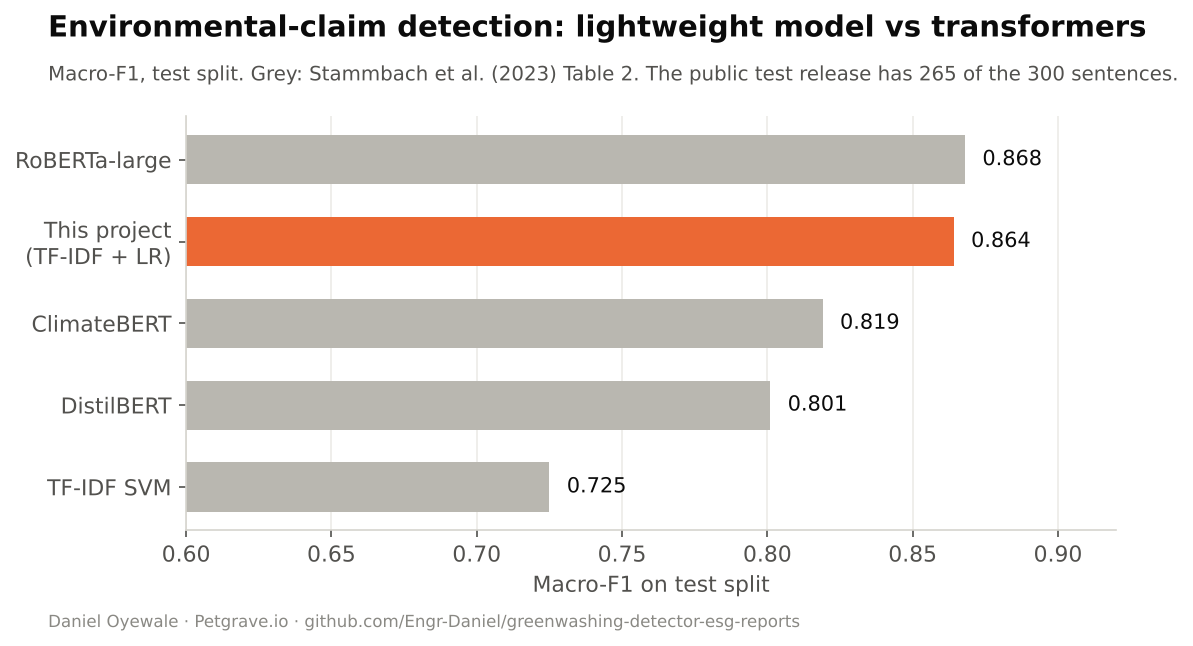
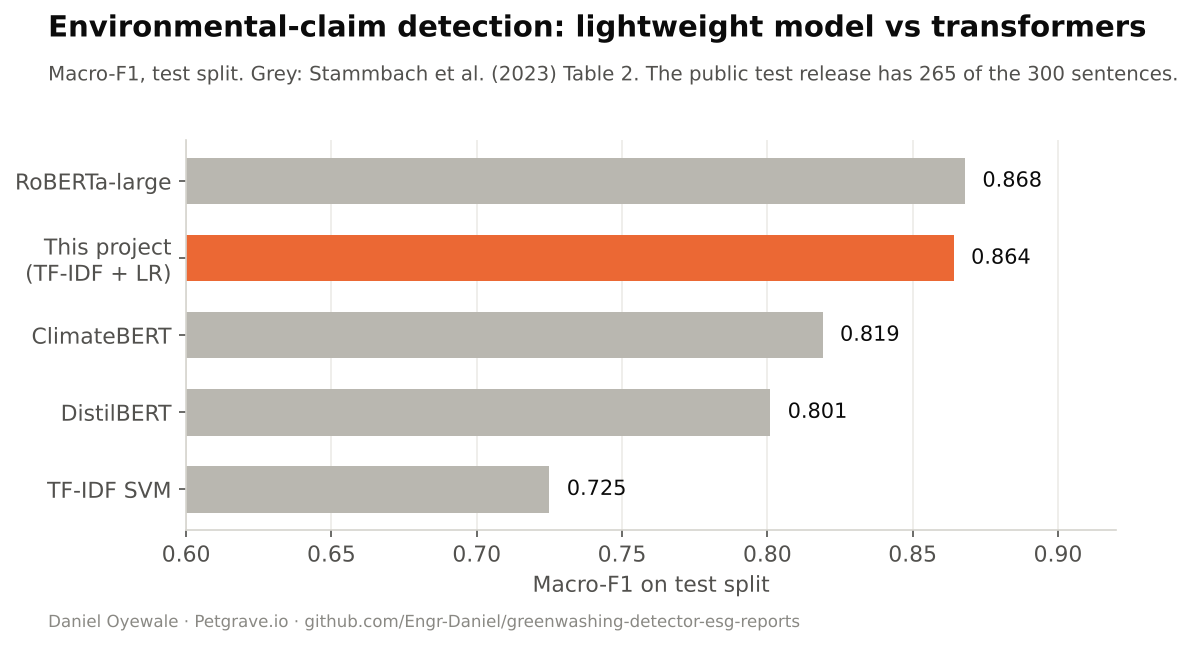
fix: case-study chart now splits claims into groups that sum to 100%
Each claim falls in exactly one group (red flags only, mixed, evidence only,
neither), replacing overlapping signal shares that readers expected to add up.

diff --git a/app/streamlit_app.py b/app/streamlit_app.py
@@ -15,7 +15,7 @@ import streamlit as st
 
 ROOT = Path(__file__).resolve().parents[1]
 sys.path.insert(0, str(ROOT / "src"))
-from greenwash.analyse import analyse_pdf, analyse_sentences, claim_mask, models, scorecard, signal_counts  # noqa: E402
+from greenwash.analyse import MIX, analyse_pdf, analyse_sentences, claim_mask, claim_mix, models, scorecard, signal_counts  # noqa: E402
 from greenwash.paths import METRICS, PROCESSED, SAMPLES  # noqa: E402
 from greenwash.pdftext import sentences  # noqa: E402
 from greenwash.scoring import explain, grade, load_signals  # noqa: E402
@@ -455,27 +455,43 @@ with t_cmp:
                      "Quantified": sc["share_quantified"], "Verified": sc["share_verified"], "Targets": sc["targets"],
                      "With baseline": sc["targets_with_baseline"]})
     cmp = pd.DataFrame(rows)
-    st.dataframe(cmp, hide_index=True, width="stretch", column_config={
+    st.dataframe(cmp.assign(**{c: cmp[c] * 100 for c in ("Vague", "Quantified", "Verified")}), hide_index=True,
+                 width="stretch", column_config={
         "Score": st.column_config.ProgressColumn("Score", min_value=0, max_value=100, format="%.0f"),
         "Median specificity": st.column_config.NumberColumn(format="%.0f"),
-        **{c: st.column_config.NumberColumn(c, format="percent") for c in ("Vague", "Quantified", "Verified")}})
-    metrics = [("Vague", "Vague wording"), ("Quantified", "Quantified"), ("Verified", "Externally verified")]
+        **{c: st.column_config.NumberColumn(c, format="%.0f%%") for c in ("Vague", "Quantified", "Verified")}})
+    mixes = [r["mix"] for r in CASES["reports"].values()]
+    if sc is not None and not case_key:
+        mixes.append(claim_mix(df))
+    mix_col = {"vague_only": ORANGE, "mixed": BLUE, "specific": AQUA, "neutral": "#b9b7b0"}
+    names = [n.replace(" Plc", "").replace(" Holdings", "").replace(" Energy", "").replace(" Cement", "")
+             if MOBILE else n for n in cmp.Report][::-1]
+    min_lab = 0.12 if MOBILE else 0.06
     fig = go.Figure()
-    for i, r in enumerate(cmp.itertuples()):
-        fig.add_trace(go.Bar(name=r.Report, x=[m[1] for m in metrics], y=[getattr(r, m[0]) for m in metrics],
-                             marker_color=SERIES[i % 3] if i < 3 else INK3, text=[pct(getattr(r, m[0])) for m in metrics],
-                             textposition="outside", textfont=dict(color=INK2, size=11), cliponaxis=False,
-                             hovertemplate="%{x}: %{y:.0%}<extra>" + r.Report + "</extra>"))
-    style(fig, "Disclosure profile", "Share of each report's environmental claims", height=380, legend=True)
-    fig.update_yaxes(tickformat=".0%", range=[0, max(0.1, cmp[["Vague", "Quantified", "Verified"]].max().max() * 1.25)])
-    fig.update_layout(bargap=0.25)
+    for k, lab in MIX:
+        vals = [m[k]["share"] for m in mixes][::-1]
+        cnts = [m[k]["claims"] for m in mixes][::-1]
+        fig.add_trace(go.Bar(y=names, x=vals, orientation="h", name=lab, marker_color=mix_col[k],
+                             marker_line=dict(color="white", width=1.5), customdata=cnts,
+                             text=[f"{v:.0%}" if v >= min_lab else "" for v in vals], textposition="inside", textangle=0,
+                             insidetextanchor="middle", textfont=dict(color=INK if k == "neutral" else "white", size=12),
+                             hovertemplate="%{y}<br>" + lab + ": %{x:.0%} (%{customdata} claims)<extra></extra>"))
+    no_ev = [m["vague_only"]["share"] + m["neutral"]["share"] for m in mixes]
+    style(fig, f"{min(no_ev):.0%}–{max(no_ev):.0%} of claims give no verifiable evidence",
+          "Each claim counted once, so each bar = 100%. Evidence = number + unit, year, baseline, scope, verification "
+          "or concrete action.", height=150 + 70 * len(mixes), legend=True)
+    fig.update_layout(barmode="stack", bargap=0.35, legend_traceorder="normal")
+    fig.update_xaxes(tickformat=".0%", range=[0, 1])
+    fig.update_yaxes(gridcolor="rgba(0,0,0,0)")
     st.plotly_chart(fig, width="stretch", config=CFG)
     best_q = cmp.loc[cmp.Quantified.idxmax()]
     most_v = cmp.loc[cmp.Vague.idxmax()]
     st.markdown(f'''<div class="card"><h4>What stands out</h4>
-      <div class="msg"><div class="n">1</div><div><div class="t">Numbers are rare</div><div class="b">Across the reports,
-      only {cmp.Quantified.min():.0%}–{cmp.Quantified.max():.0%} of environmental claims carry a number with a unit
-      ({html.escape(best_q.Report)} leads), and external verification is mentioned in under {cmp.Verified.max():.0%}.</div></div></div>
+      <div class="msg"><div class="n">1</div><div><div class="t">Most claims can't be checked</div><div class="b">
+      {min(no_ev):.0%}–{max(no_ev):.0%} of environmental claims give no verifiable evidence (no number, year, baseline,
+      scope, verification or concrete action). Only {cmp.Quantified.min():.0%}–{cmp.Quantified.max():.0%} carry a number
+      with a unit ({html.escape(best_q.Report)} leads), and external verification is mentioned in under
+      {cmp.Verified.max():.0%}.</div></div></div>
       <div class="msg"><div class="n">2</div><div><div class="t">Generic green language dominates where numbers are
       missing</div><div class="b">{html.escape(most_v.Report)} uses vague terms in {most_v.Vague:.0%} of its
       claims.</div></div></div>

diff --git a/src/greenwash/figures.py b/src/greenwash/figures.py
@@ -24,7 +24,7 @@ NOTE = "Daniel Oyewale · Petgrave.io · github.com/Engr-Daniel/greenwashing-det
 
 
 def _save(fig, name, title, sub, foot_y=-0.03):
-    fig.subplots_adjust(top=0.80)
+    fig.subplots_adjust(top=0.76)
     fig.text(0.01, 0.97, title, ha="left", va="top", fontsize=14, fontweight="bold", color=INK)
     fig.text(0.01, 0.885, sub, ha="left", va="top", fontsize=9.5, color=INK2)
     fig.text(0.01, foot_y, NOTE, ha="left", va="top", fontsize=8, color="#8a8984")
@@ -74,29 +74,37 @@ def signal_lift(m):
           f"{m['greenwashing_risk']['n']} claims labelled greenwashing / not (EmeraldMind 2026). Orange = red flag, green = evidence.")
 
 
+MIX_STYLE = [("vague_only", "Red flags, no evidence", ORANGE), ("mixed", "Red flags + evidence", BLUE),
+             ("specific", "Evidence, no red flags", AQUA), ("neutral", "Neither (plain statement)", GREY)]
+
+
 def case_studies(cs):
-    rep = cs["reports"]
-    names = [f'{r["company"].replace(" Plc", "")}\n{r["year"]}' for r in rep.values()]
-    metrics = [("share_vague", "Vague wording", ORANGE), ("share_quantified", "Quantified", BLUE),
-               ("share_verified", "Externally verified", AQUA)]
-    fig, ax = plt.subplots(figsize=(8, 4.4))
-    w = 0.26
-    for j, (k, lab, col) in enumerate(metrics):
-        vals = [r["scorecard"][k] for r in rep.values()]
-        xs = [i + (j - 1) * w for i in range(len(vals))]
-        ax.bar(xs, vals, width=w - 0.02, color=col, label=lab)
-        for x, v in zip(xs, vals):
-            ax.text(x, v + 0.008, f"{v:.0%}", ha="center", fontsize=9, color=INK)
-    ax.set_xticks(range(len(names)))
-    ax.set_xticklabels([f'{n}\nGrade {r["scorecard"]["report_grade"]} · {r["scorecard"]["claims"]} claims'
-                        for n, r in zip(names, rep.values())])
-    ax.yaxis.set_major_formatter(matplotlib.ticker.PercentFormatter(1, decimals=0))
-    ax.set_ylabel("Share of environmental claims")
-    ax.legend(frameon=False, ncol=3, loc="upper right", bbox_to_anchor=(1, 1.02))
-    ax.grid(axis="x", visible=False)
-    _save(fig, "03_nigerian_case_studies.png", "Nigerian sustainability reports: vague words outnumber verifiable numbers",
-          "Same model and rules applied to three public reports. Disclosure quality, not a finding of greenwashing.",
-          foot_y=-0.10)
+    """100% stacked bar: every claim falls in exactly one group, so each bar sums to 100%."""
+    rep = list(cs["reports"].values())[::-1]
+    fig, ax = plt.subplots(figsize=(9, 3.9))
+    left = [0.0] * len(rep)
+    for k, lab, col in MIX_STYLE:
+        vals = [r["mix"][k]["share"] for r in rep]
+        ax.barh(range(len(rep)), vals, left=left, color=col, label=lab, height=0.58, edgecolor="white", linewidth=1.5)
+        for i, (v, l0) in enumerate(zip(vals, left)):
+            if v >= 0.05:
+                ax.text(l0 + v / 2, i, f"{v:.0%}", ha="center", va="center", fontsize=10,
+                        color="white" if col != GREY else INK, fontweight="bold")
+        left = [a + b for a, b in zip(left, vals)]
+    ax.set_yticks(range(len(rep)))
+    ax.set_yticklabels([f'{r["company"].replace(" Plc", "")} {r["year"]}\n{r["scorecard"]["claims"]} claims · '
+                        f'grade {r["scorecard"]["report_grade"]}' for r in rep])
+    ax.set_xlim(0, 1)
+    ax.xaxis.set_major_formatter(matplotlib.ticker.PercentFormatter(1, decimals=0))
+    ax.set_xlabel("Share of the report's environmental claims (each bar = 100%)")
+    ax.grid(axis="y", visible=False)
+    ax.legend(frameon=False, ncol=4, loc="lower left", bbox_to_anchor=(0, 1.0), fontsize=9.5)
+    fig.subplots_adjust(left=0.22)
+    no_ev = [r["mix"]["vague_only"]["share"] + r["mix"]["neutral"]["share"] for r in rep]
+    _save(fig, "03_nigerian_case_studies.png",
+          f"{min(no_ev):.0%}–{max(no_ev):.0%} of environmental claims in each report give no verifiable evidence",
+          "Each claim is counted once. Evidence = a number with a unit, a year, baseline, scope, verification or a concrete "
+          "action. Disclosure quality, not a finding of greenwashing.", foot_y=-0.06)
 
 
 def main():

diff --git a/src/greenwash/case_studies.py b/src/greenwash/case_studies.py
@@ -14,7 +14,7 @@ from pathlib import Path
 import pandas as pd
 
 sys.path.insert(0, str(Path(__file__).resolve().parents[1]))
-from greenwash.analyse import analyse_pdf, scorecard, signal_counts  # noqa: E402
+from greenwash.analyse import analyse_pdf, claim_mix, scorecard, signal_counts  # noqa: E402
 from greenwash.models import load_env_claims  # noqa: E402
 from greenwash.paths import PROCESSED, RAW  # noqa: E402
 from greenwash.scoring import specificity_score  # noqa: E402
@@ -62,6 +62,7 @@ def main():
         out["reports"][key] = {
             **meta, "scorecard": sc,
             "signals": signal_counts(df).to_dict(orient="records"),
+            "mix": claim_mix(df),
             "spec_hist": c.specificity.value_counts(bins=list(range(0, 105, 5)), sort=False).astype(int).tolist(),
             "by_page": c.groupby("page").agg(claims=("sentence", "size"), specificity=("specificity", "mean"))
                         .reset_index().round(1).to_dict(orient="records"),

diff --git a/src/greenwash/analyse.py b/src/greenwash/analyse.py
@@ -103,6 +103,20 @@ def scorecard(df: pd.DataFrame, n_pages: int | None = None) -> dict:
     return out
 
 
+MIX = [("vague_only", "Red flags, no evidence"), ("mixed", "Red flags + evidence"),
+       ("specific", "Evidence, no red flags"), ("neutral", "Neither")]
+
+
+def claim_mix(df: pd.DataFrame) -> dict:
+    """Split claims into four mutually exclusive groups (shares sum to 1)."""
+    c = df[df.is_claim]
+    red, ev = c.red_flags.map(bool), c.evidence.map(bool)
+    n = max(len(c), 1)
+    counts = {"vague_only": int((red & ~ev).sum()), "mixed": int((red & ev).sum()),
+              "specific": int((~red & ev).sum()), "neutral": int((~red & ~ev).sum())}
+    return {k: {"claims": v, "share": v / n} for k, v in counts.items()}
+
+
 def signal_counts(df: pd.DataFrame) -> pd.DataFrame:
     c = df[df.is_claim]
     sig = {s.name: (s.label, s.kind) for s in load_signals()}

diff --git a/README.md b/README.md
@@ -21,15 +21,16 @@ produces a report scorecard and audit note.
 | Claim detector (TF-IDF + logistic regression) | **macro-F1 0.864** on the expert-labelled test set: above ClimateBERT (0.819), on par with RoBERTa-large (0.868), and runs in milliseconds on a CPU |
 | Greenwashing-language model | **ROC-AUC 0.78** (5-fold CV, 671 labelled claims) |
 | Strongest red flags | Exaggerated impact appears **7.6×** more often in greenwashing claims; superlatives 3.0×; vague terms 2.6× |
-| Nigerian case studies | Access Holdings 2025 **C**, Dangote Cement 2024 **C**, Seplat Energy 2023 **D**. Vague green wording appears in 15–32% of claims, numbers with units in 3–12%, external verification in ≤3% |
+| Nigerian case studies | Access Holdings 2025 **C**, Dangote Cement 2024 **C**, Seplat Energy 2023 **D**. **82–89% of environmental claims give no verifiable evidence**. External verification is mentioned in ≤3% |
 
 ![Claim detector benchmark](reports/figures/01_claim_detector_benchmark.png)
 
 ### Nigerian sustainability reports
 ![Case studies](reports/figures/03_nigerian_case_studies.png)
 
-- **Specific numbers are rare.** Only 3–12% of environmental claims carry a number with a unit, and external
-  assurance is mentioned in ≤3%. Under IFRS S2, which Nigeria is adopting through the FRC roadmap, emissions and
+- **Most claims can't be checked.** Every claim is put in exactly one group. 82–89% either carry red flags with
+  no evidence (24–32%) or are plain statements with neither (50–65%). Only 7–15% are specific with no red flags,
+  and external assurance is mentioned in ≤3%. Under IFRS S2, which Nigeria is adopting through the FRC roadmap, emissions and
   targets must be quantified.
 - **Targets lack baselines.** Of 11 measurable targets found, 1 states a baseline year (Dangote's Scope 1 and 2
   intensity target: 691 → 563 kgCO₂/t, 2021 → 2030).
